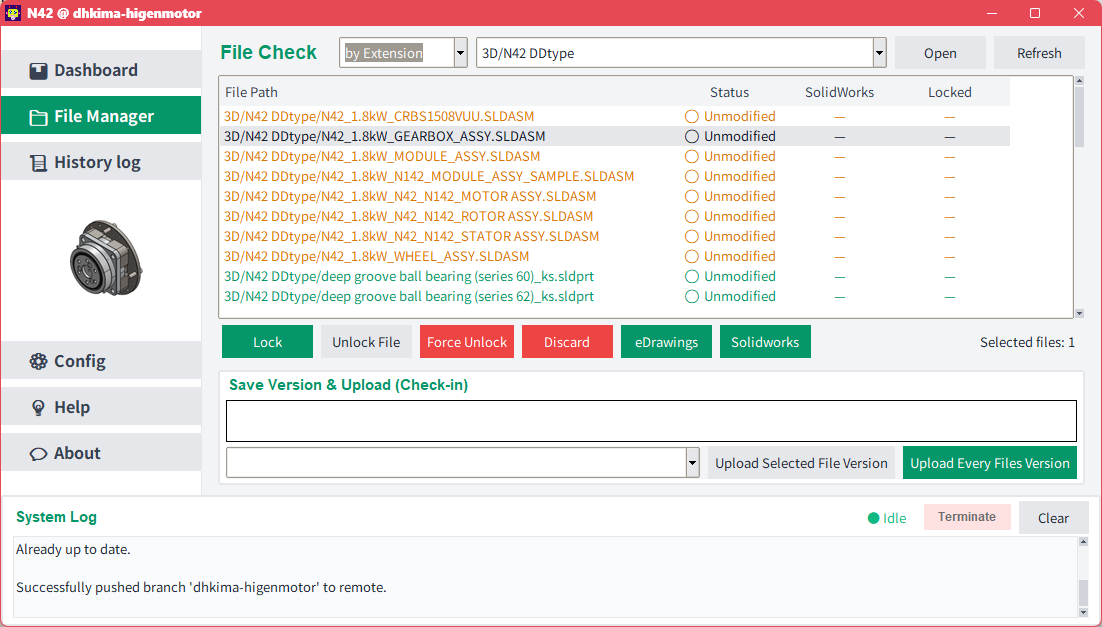
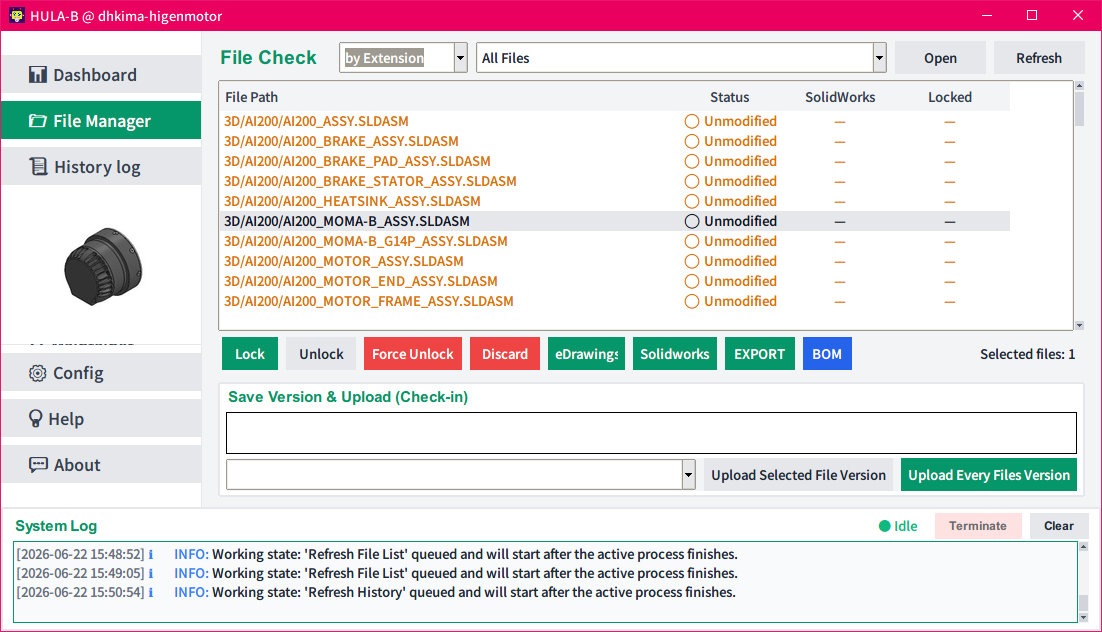
Update Documents

diff --git a/history.md b/history.md
@@ -129,6 +129,21 @@ gantt
 
 ---
 
+### 9단계: 솔리드웍스 BOM 및 Partlist 일괄 추출 자동화 (Milestone 9 - 2026-06-22)
+* **BOM / Partlist 추출 기능 전용 엔진 탑재**:
+  - File Manager 탭의 파일 목록 툴바에 전용 **[BOM]** 버튼을 배치하고, 선택된 단일 어셈블리(`.sldasm`) 파일에 대한 BOM Tree 및 Partlist를 자동으로 추출해 주는 백그라운드 엔진(`sw_bom_runner.py`)을 설계하였습니다.
+  - 최하위 레벨 부품/어셈블리까지 깊이 제한 없이 완전하게 추적(Traverse)하여 BOM 계통 트리와 전체 수량이 취합된 납작한 파트리스트(Partlist)를 일괄 출력합니다.
+  - SolidWorks 내 억제(Suppressed) 상태인 부품 및 어셈블리 속성에서 'BOM에서 제외(BOM Exclude)' 설정된 부품들을 정확하게 판별하여 추출에서 완전 제외합니다.
+* **설정(Configuration) 팝업 분리 및 COM 아파트먼트 교착 방지**:
+  - 2개 이상의 설정(Configuration)이 포함된 어셈블리 파일의 경우, BOM Tree 작성 전에 사용자에게 원하는 설정을 선택하도록 팝업창을 띄웁니다.
+  - GUI 메인 스레드 상에서 `pythoncom` 호출 시 발생하는 COM 아파트먼트 모델(STA/MTA) 충돌 및 silent failure를 해결하기 위해, 설정 목록 조회부를 별도의 클린 독립 Python 서브프로세스로 분리 가동하도록 설계하였습니다. 이를 통해 한글 설정명(예: `기본`) 조회 및 팝업 표출이 교착이나 프리징 없이 안정적으로 처리됩니다.
+* **BOM 저장 포맷 및 트리 인덴테이션 지원**:
+  - 지정된 컬럼 순서(`Depth`, `Type`, `PartNumber`, `Partname`, `Qty`, `Material`, `Treatment`, `Weight`, `Description`, `File Name`, `Configuration`, `File Path`) 규칙을 엄격히 준수하여 Excel 시트(`__BOM.xlsx`, `__PL.xlsx`)를 작성하고 `2D/BOM/` 경로에 자동 저장합니다.
+  - `Partname`이 비어 있는(Null) 경우 파일명(확장자 제외)으로 대체하며, `__BOM.xlsx` 트리 구조 가독성을 극대화하기 위해 `Partname` 문자열 앞단에 `{Depth - 1}` 크기만큼의 공백 스페이스를 자동으로 삽입해 줍니다.
+  - BOM 추출이 완료되면, SolidWorks에서 함께 열렸던 하위 참조 파트 및 서브 어셈블리 문서들을 메모리 참조 소거(GC 강제 호출)와 함께 리턴하여 완벽하게 연쇄 폐쇄(`CloseDoc`) 정리하도록 자동화 시퀀스를 구축했습니다.
+
+---
+
 ## 📈 핵심 아키텍처 진화 대조표
 
 | 비교 항목 | 초기 설계 (V01) | 현재 설계 (최신 헤드) | 개선 효과 및 핵심 가치 |
@@ -142,6 +157,7 @@ gantt
 | **EXPORT 루프 내구성** | 타임아웃+재시작 실패 시 break로 전체 중단 | continue로 변경하여 나머지 파일 계속 처리 | 일부 파일 장애가 전체 배치 처리를 멈추지 않음 |
 | **EXPORT 진행 갱신** | 한글 설정명(예: `기본`) 출력 시 UI 스레드 디코드 에러 크래시 | UTF-8 강제 재설정 + errors="replace" 스트림 처리 | 한글/특수문자 포함 도면명/설정명에서도 UI 프리징 및 크래시 완전 차단 |
 | **EXPORT 문서 닫기** | COM 참조 누수로 인한 CloseDoc 데드락 및 절대경로 오전달로 인한 미닫힘 | GetTitle()로 대상 지정 + 문서 객체 변수 해제 & 가비지 컬렉션(GC) 선행 호출 | 백그라운드 SolidWorks의 리소스 락 해제 및 안정적인 메모리 정리 |
+| **BOM 추출** | EXPORT 다이얼로그 내부 임시 탑재 (CSV/간이 출력) | 전용 BOM 버튼 + 독립 서브프로세스 기반 다중 설정 팝업 제어 및 계층 스페이스 트리/납작 파트리스트 분리 추출 | 신뢰할 수 있는 다중 하위 어셈블리 추적, COM 교착 차단, 가독성 높은 계층별 공백 표현 |
 
 ---
 

diff --git a/README.md b/README.md
@@ -60,6 +60,17 @@
     - **Watchdog Timeout Protection**: If SolidWorks hangs or encounters a deadlock (e.g., when loading a corrupted or heavy drawing file) for more than 3 minutes on a single file, a watchdog timer terminates the hung subprocess, kills the deadlocked SolidWorks process, spins up a fresh instance, and automatically resumes conversion from the next file in queue.
     - **Robust Encoding & Localized Name Support**: The stdout/stderr communication streams use UTF-8 and fallback replacement (`errors="replace"`), preventing any background reader thread crashes in the Tkinter GUI when printing non-ASCII configuration or file names (such as the Korean configuration name `기본`).
     - **Deadlock-Free Document Closing**: To prevent SolidWorks from hanging during document closing, `CloseDoc` is invoked using the document's Title (via `GetTitle()`) instead of the absolute file path. Furthermore, all active Python COM wrapper references to the files are cleared (`model = None`, etc.) and garbage collection is explicitly triggered (`gc.collect()` and `CoCollectFreeUnusedLibraries()`) before closing, releasing any lock on the files.
+* **Assembly BOM & Partlist Extraction (BOM button)**:
+  - A new **[BOM]** button is provided in the File Manager toolbar.
+  - It is enabled **only** when a single assembly (`.sldasm`) file is selected and no background tasks are running.
+  - Clicking this button recursively extracts a hierarchical BOM Tree and a flat Partlist, using the SolidWorks COM API to traverse the assembly hierarchy down to the lowest level.
+  - **Dynamic Configuration Selector Popup**: If the assembly has 2 or more configurations, it prompts the user with a configuration selection popup dialog. This query runs in a separate clean Python subprocess, completely bypassing COM apartment model clashes on the main GUI thread.
+  - **Smart Filtering**: Automatically excludes suppressed components and components marked as "Exclude from BOM" in SolidWorks.
+  - **Excel Formatting & Columns Schema**: Saves two sheets under `2D/BOM/` relative to the assembly's folder:
+    1. Hierarchical BOM Tree (`[assembly]__BOM.xlsx`): Displays the tree with indented `Partname` values (prepending `Depth - 1` space characters). If the `Partname` property is Null, it falls back to the base filename.
+    2. Flat Partlist (`[assembly]__PL.xlsx`): Aggregates all parts and sub-assemblies with total accumulated quantities.
+    - Standard columns are ordered strictly as: `Depth`, `Type`, `PartNumber`, `Partname`, `Qty`, `Material`, `Treatment`, `Weight`, `Description`, `File Name`, `Configuration`, `File Path`.
+  - **COM Reference & Document Cleanup**: Automatically closes the main assembly and all opened referenced sub-assemblies/part files recursively in SolidWorks, releasing all file handles.
 
 ---
 
@@ -137,6 +148,10 @@ Details and examples for each configuration item are as follows:
    - While filtering for the desired range of files in the file list, press the **[EXPORT]** button.
   - Check the target formats (PDF, DXF, STEP, etc.) and enter a `PREFIX` if there are prefix conditions.
   - Press the **[Start]** button; the SolidWorks engine will run in the background and batch convert and save the target files into the specified subdirectories (e.g., `2D/PDF/`, `2D/STEP/`) with high quality, maintaining black & white pen tables (for PDF) and AP214 color (for STEP).
+8. **Extract Assembly BOM and Partlist**:
+   - Select exactly one assembly (`.sldasm`) file and click the **[BOM]** button in the File Manager toolbar.
+   - If the assembly has multiple configurations, select the target configuration in the dropdown popup window.
+   - The extraction process runs in the background. Once completed, verify the generated `[assembly]__BOM.xlsx` (indented tree) and `[assembly]__PL.xlsx` (flat partlist) files under the `2D/BOM/` subfolder relative to the assembly's directory.
 
 ### 4.3 Maintainer Mode (Administrator Functions)
 

diff --git a/README_ko.md b/README_ko.md
@@ -60,6 +60,17 @@
     - **Watchdog 타임아웃 보호**: 개별 도면 파일 변환 시 SolidWorks 엔진이 무한 대기 또는 교착 상태(Deadlock)에 빠져 3분(180초) 이상 지연될 경우, 감시 타이머가 멈춘 서브프로세스를 강제 종료하고 SolidWorks 프로세스를 즉시 `taskkill` 처리한 뒤, 새 인스턴스를 재생성하여 다음 순번 파일부터 안전하게 자동으로 변환을 재개합니다.
     - **견고한 한글/인코딩 지원**: 표준 출력(stdout/stderr) 스트림에 UTF-8 인코딩 및 대체 폴백(`errors="replace"`)을 구성하여, 한글 설정명(예: `기본`) 이나 특수문자가 포함된 도면명이 출력될 때 Tkinter UI의 진행률 감시 스레드가 디코딩 에러로 크래시되는 현상을 원천 방지하였습니다.
     - **교착 상태 없는 문서 닫기**: 솔리드웍스 문서가 백그라운드에서 정상적으로 닫히도록 `CloseDoc` 호출 시 절대 파일 경로 대신 문서 제목(Title, `GetTitle()`로 획득)을 전달합니다. 또한, 닫기 작업 직전에 파일과 연관된 모든 Python COM 객체 참조(예: `model = None`)를 무효화하고 가비지 컬렉션(`gc.collect()` 및 `CoCollectFreeUnusedLibraries()`)을 강제 가동하여 SolidWorks의 리소스 락 상태를 안전하게 해제한 뒤 문서를 닫습니다.
+* **어셈블리 BOM & Partlist 일괄 추출 (BOM 버튼)**:
+  - File Manager 탭의 파일 목록 툴바에 전용 **[BOM]** 버튼이 신규 제공됩니다.
+  - 파일 목록에서 단일 어셈블리(`.sldasm`) 파일을 선택하고 백그라운드 작업이 없을 때만 버튼이 활성화됩니다.
+  - 버튼을 누르면 SolidWorks COM API를 통해 어셈블리 하위 구조를 최하위 레벨까지 재귀적으로 깊이 제한 없이 완전 추적하여 BOM Tree 계통 구조와 전체 수량이 취합된 납작한 Partlist를 자동 추출합니다.
+  - **설정(Configuration) 선택 팝업**: 2개 이상의 설정이 존재할 경우, 사용자에게 설정을 선택하도록 팝업창을 제공합니다. 메인 GUI 스레드와의 COM 아파트먼트 모델 충돌을 피하기 위해 클린 독립 Python 서브프로세스를 가동하여 한글 설정명(예: `기본`) 조회 및 팝업 표출이 교착/프리징 없이 매우 안정적으로 구동됩니다.
+  - **스마트 필터링**: SolidWorks에서 억제(Suppressed) 상태인 부품이나 'BOM에서 제외(BOM Exclude)' 설정된 부품들을 자동으로 감지하여 추출 대상에서 완전 제외합니다.
+  - **Excel 포맷팅 및 컬럼 스키마**: 어셈블리 폴더 기준 `2D/BOM/` 경로에 다음 2개의 Excel 시트를 자동 생성합니다:
+    1. 계층 BOM Tree (`[어셈블리명]__BOM.xlsx`): 트리 계층 가독성을 위해 `Partname` 값 앞에 `{Depth - 1}` 크기의 공백 스페이스를 자동 삽입합니다. `Partname` 속성이 Null/비어있을 경우 파일 이름(확장자 제외)으로 자동 대체합니다.
+    2. 납작 파트리스트 (`[어셈블리명]__PL.xlsx`): 전체 하위 파트와 서브 어셈블리들의 총 누적 수량을 합산하여 출력합니다.
+    - 데이터 열 순서는 `Depth`, `Type`, `PartNumber`, `Partname`, `Qty`, `Material`, `Treatment`, `Weight`, `Description`, `File Name`, `Configuration`, `File Path` 규칙을 엄격히 준수합니다.
+  - **COM 및 문서 클린업**: BOM 추출 완료 시 SolidWorks에서 함께 열렸던 하위 참조 부품 및 어셈블리 문서들을 메모리 참조 해제(GC 호출)와 함께 자동으로 연쇄 폐쇄(`CloseDoc`) 정리하여 리소스 락을 남기지 않습니다.
 
 ---
 
@@ -137,6 +148,10 @@
    - 파일 목록에서 원하는 범위의 파일들을 필터링한 상태에서 **[EXPORT]** 버튼을 누릅니다.
    - 변환할 포맷(PDF, DXF, STEP 등)을 체크하고 접두사 조건이 있다면 `PREFIX`를 입력합니다.
    - **[Start]** 버튼을 누르면 백그라운드에서 솔리드웍스 엔진이 실행되어 대상 파일들을 지정된 하위 경로(예: `2D/PDF/`, `2D/STEP/`)에 흑백 펜테이블(PDF) 및 AP214 컬러(STEP)를 살려 고품질로 일괄 변환 및 저장합니다.
+8. **어셈블리 BOM 및 파트리스트 추출**:
+   - File Manager 파일 목록에서 단 하나의 어셈블리(`.sldasm`) 파일을 선택하고 **[BOM]** 버튼을 누릅니다.
+   - 대상 어셈블리에 2개 이상의 설정이 존재하는 경우, 설정 선택 팝업창에서 원하는 설정을 선택합니다.
+   - 추출 프로세스가 백그라운드에서 완료된 후, 해당 어셈블리 폴더 하위의 `2D/BOM/` 경로에 저장된 `[어셈블리명]__BOM.xlsx` (계층 트리 구조) 및 `[어셈블리명]__PL.xlsx` (납작한 전체 부품 목록) 엑셀 파일을 확인합니다.
 
 ### 4.3 관리자 기능 (Maintainer Mode)
 * **저장소 생성 및 배포 (Make New Repository)**: 신규 CAD 관리용 프로젝트를 기획 시, 저장소 이름을 입력하고 **[Make]** 버튼을 실행하면 GitHub 조직 하위에 Private 저장소를 생성하고 템플릿 파일(`.gitattributes`, `.gitignore`)을 주입한 뒤 main/user 브랜치 배포까지의 모든 과정을 자동으로 마칩니다. 완료 후 생성된 저장소 정보로 대시보드가 즉시 자동 갱신되며 대시보드로 이동합니다.